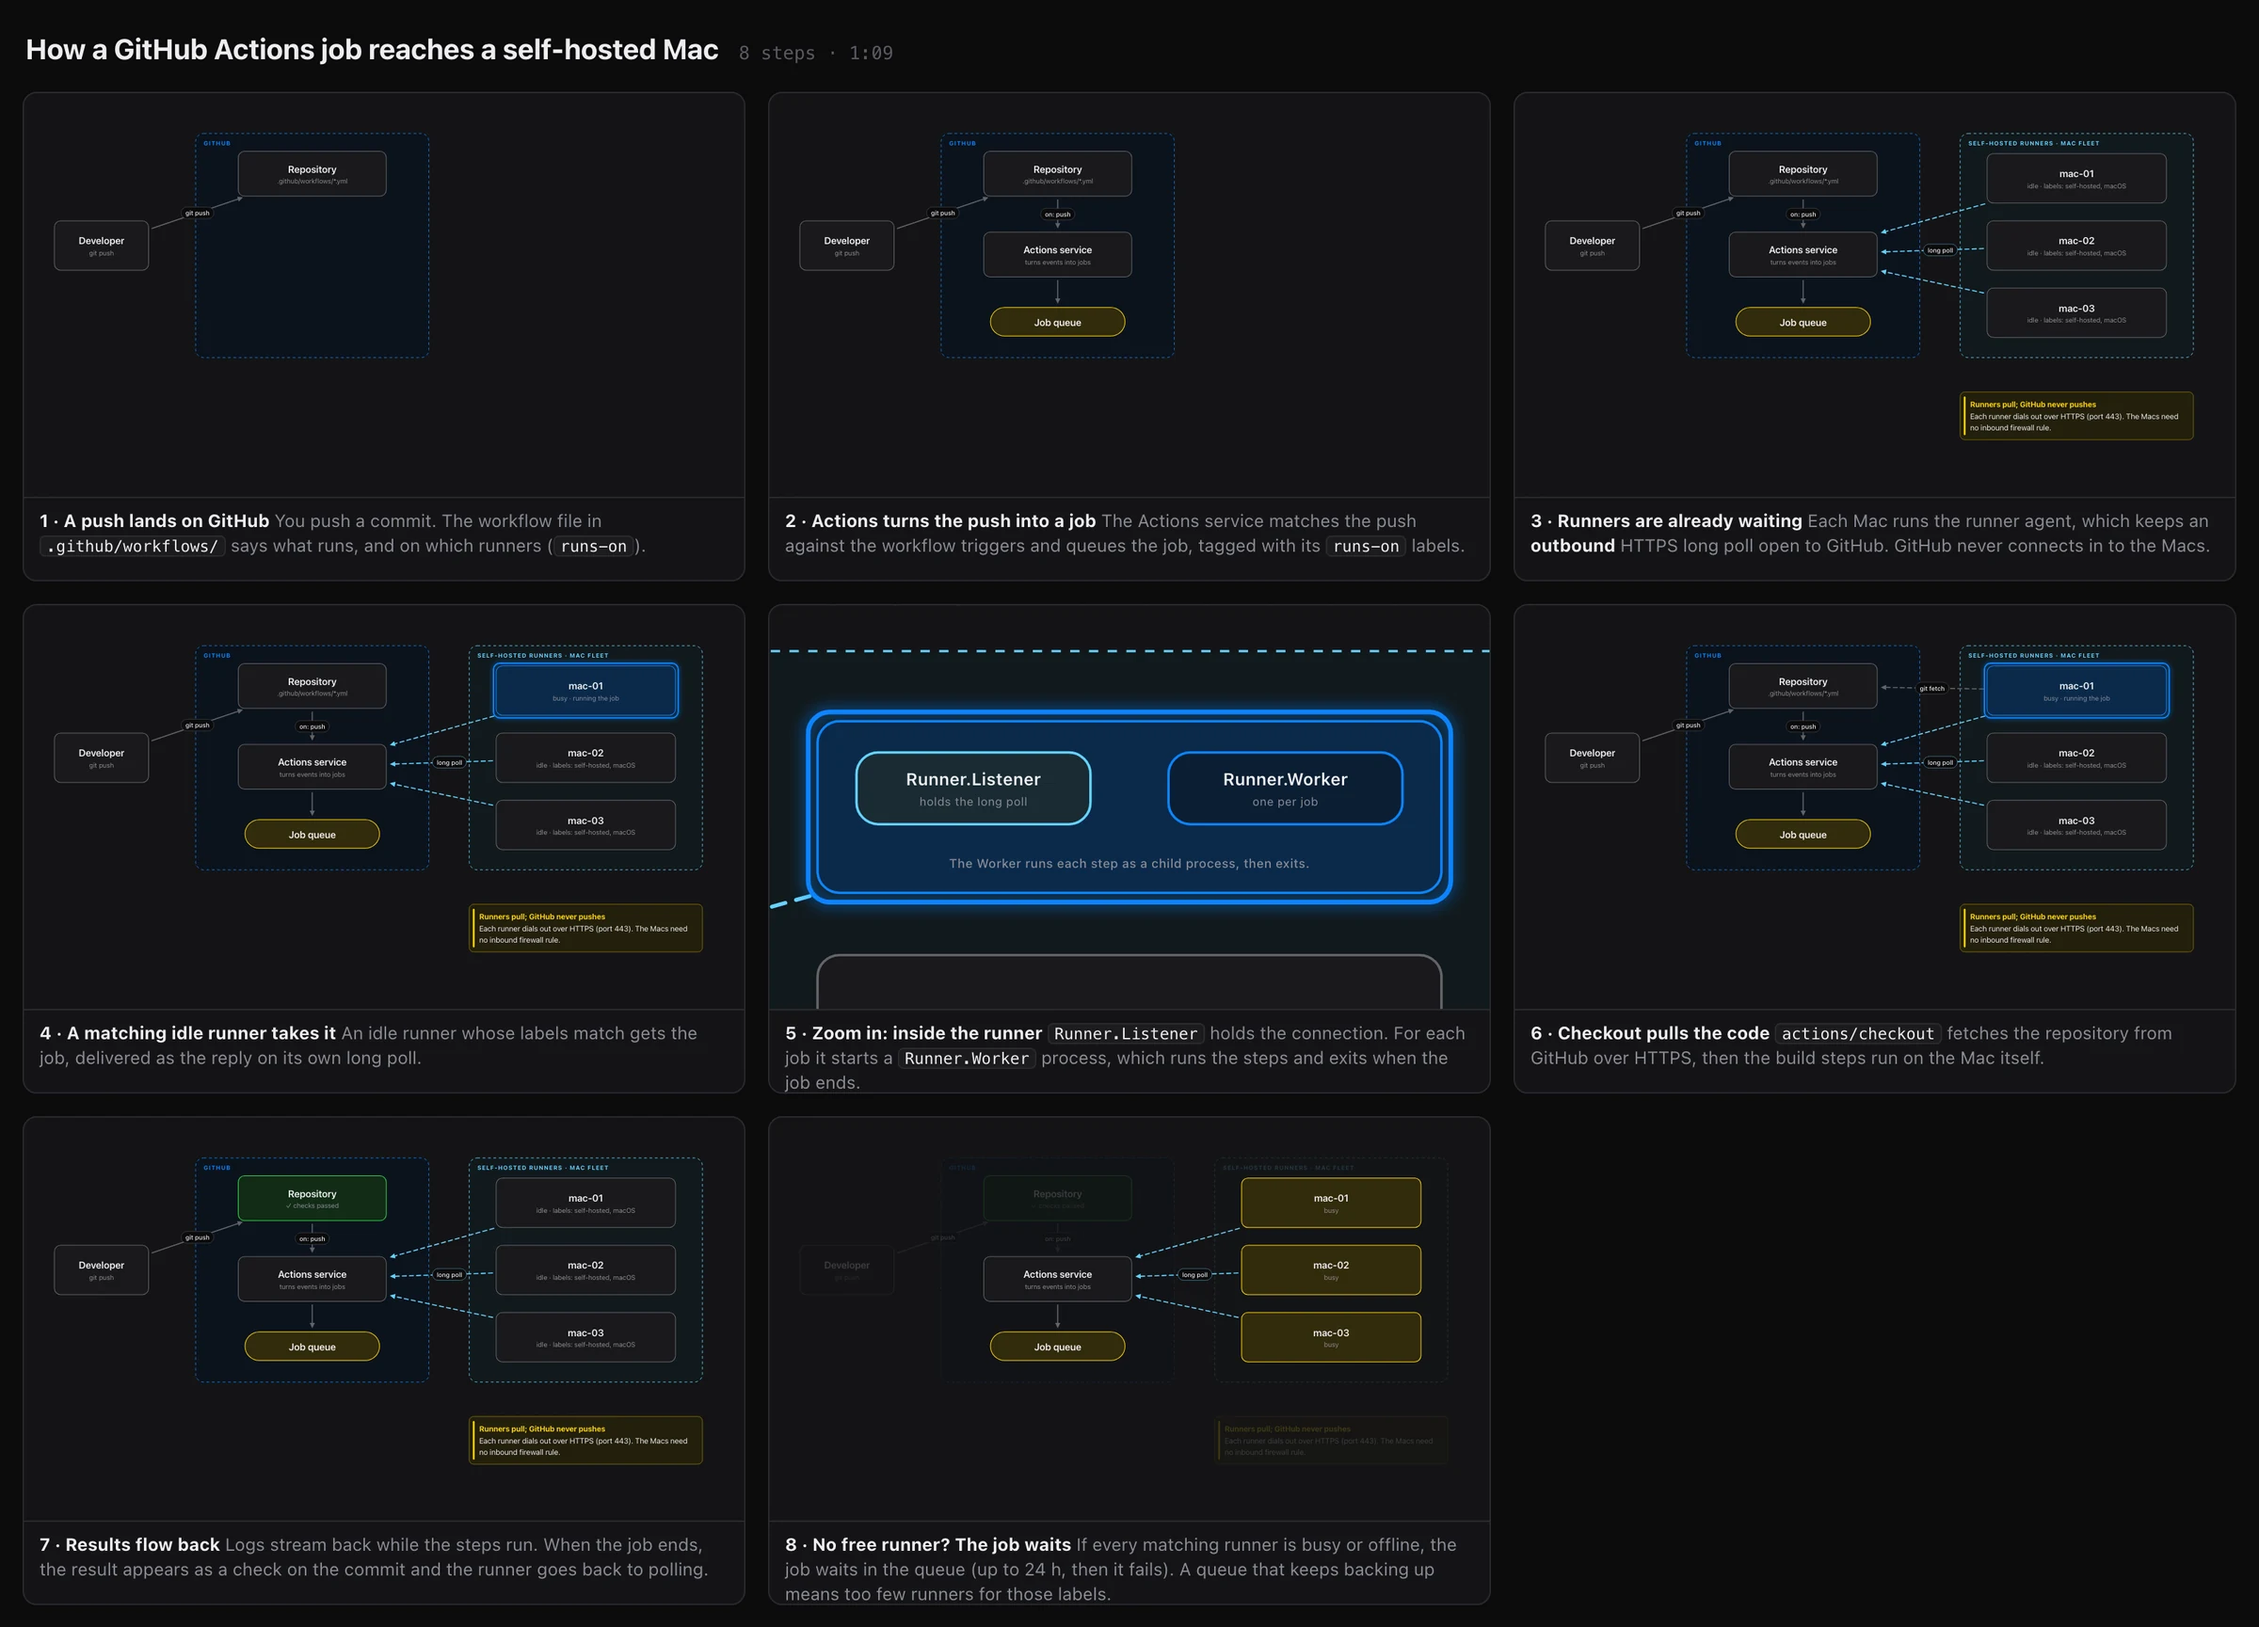
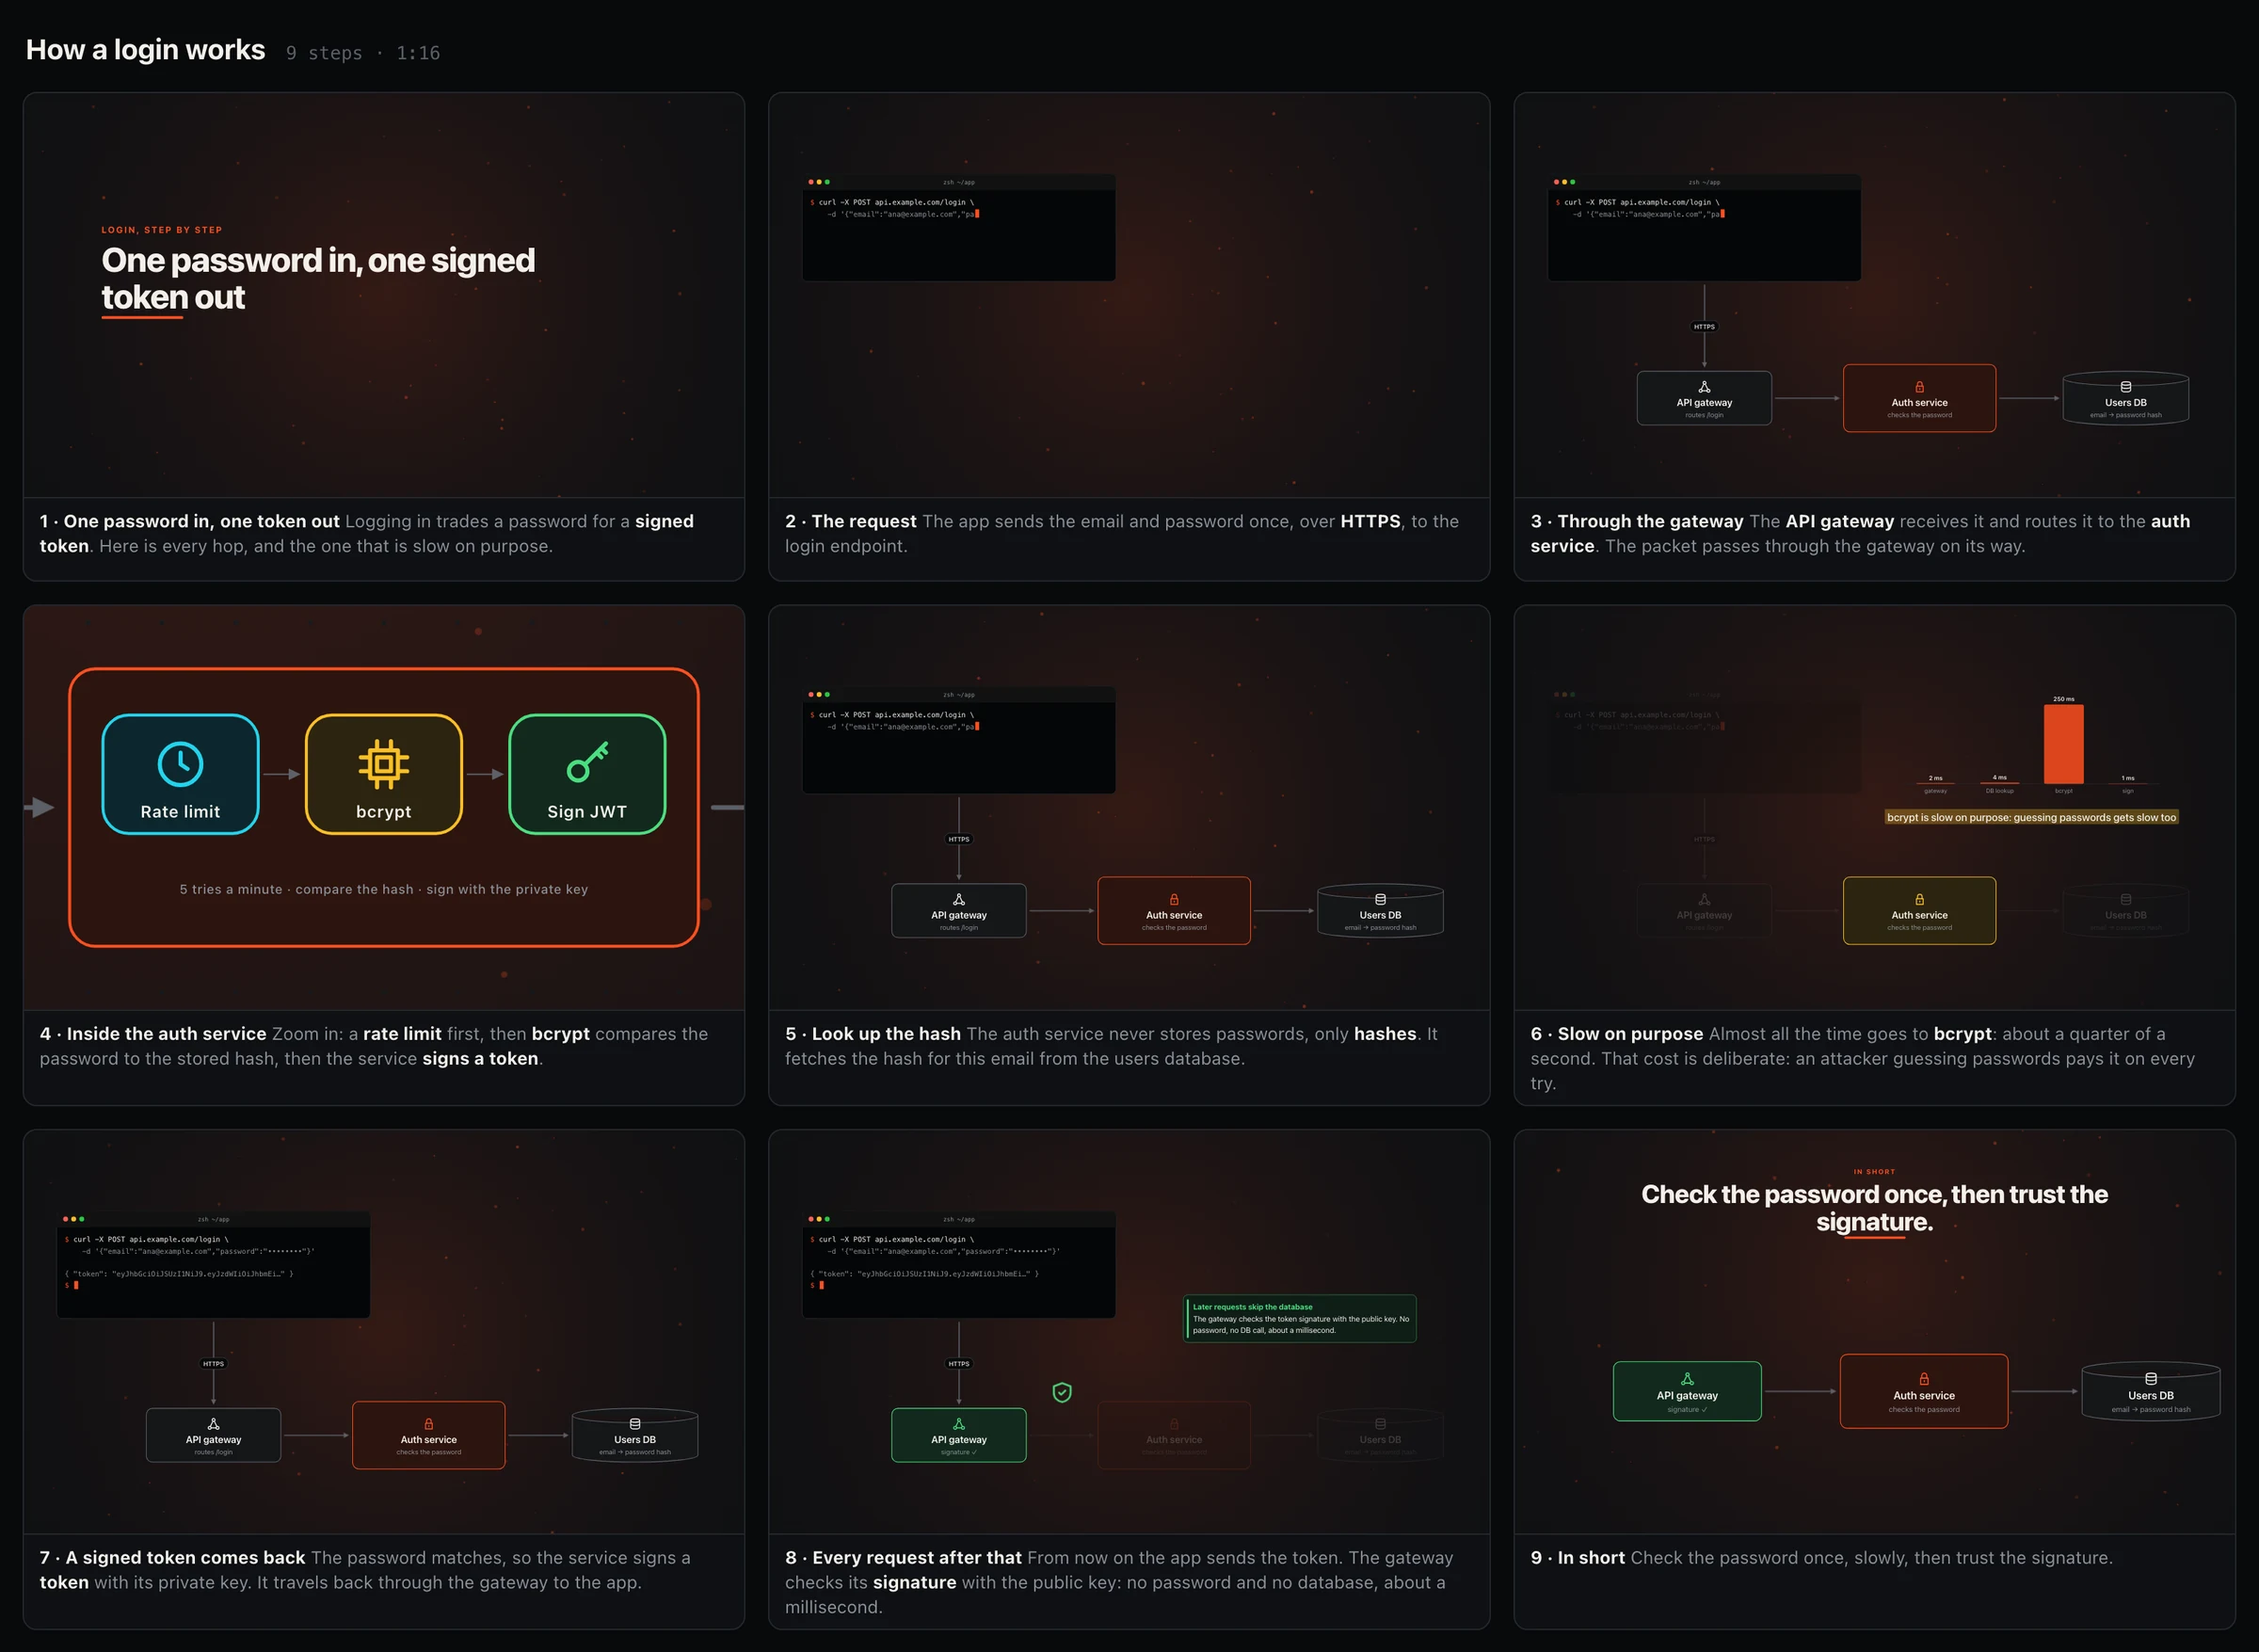
README: feature the login example as input prompt and output
Hero animation and contact sheet now come from the login explainer, with the
exact prompt, a link to play the result, and what each step shows.

Claude-Session: https://claude.ai/code/session_01FcE5kcGUEmbjMKEMKZrbUc

diff --git a/README.md b/README.md
@@ -12,22 +12,42 @@ A [Claude Code](https://claude.com/claude-code) skill. One prompt in, one self-c
 [![release](https://img.shields.io/github/v/release/4lxn/motion-explainer?color=0a84ff)](https://github.com/4lxn/motion-explainer/releases)
 [![MIT](https://img.shields.io/badge/license-MIT-blue.svg)](LICENSE)
 
-<img src="docs/demo.webp" alt="A motion-explainer animation: a terminal types git push, a pipeline lights up, a bar chart shrinks, a status page turns green" width="820">
+<a href="https://4lxn.github.io/motion-explainer/login-flow.html"><img src="docs/demo.webp" alt="A motion-explainer animation of a login: a terminal types a curl call, a packet passes through the API gateway, the camera zooms inside the auth service, a latency chart shows bcrypt dominating" width="820"></a>
+
+<sub>Made from one prompt. Click to play it yourself: pause, step, zoom.</sub>
 
 </div>
 
-## How it goes
+## One prompt in, one explainer out
+
+**Input**
 
 ```text
-you    > /motion-explainer how does DNS turn example.com into an IP?
-
-claude > 1. storyboards 10 steps and checks the facts (here: a real dig +trace)
-         2. writes a scene, builds it, lints it in headless Chrome
-         3. screenshots every step, fixes what looks wrong
-         4. opens the player
+/motion-explainer Explain a login flow. Icon on every box, a terminal mockup for the curl call,
+a latency chart, zoom into the auth service, hud theme.
 ```
 
-That DNS explainer is real and unedited: [watch it](https://4lxn.github.io/motion-explainer/dns-resolution.html).
+**Output** · [**▶ Watch it**](https://4lxn.github.io/motion-explainer/login-flow.html) (9 steps, 1:16, one 120 KB HTML file) · [scene source](examples/login-flow.scene.js)
+
+| Step | What happens |
+|---|---|
+| 2 | A terminal types the `curl` call |
+| 3 | The request packet passes **through** the API gateway (its outline fills like a progress ring) on its way to the auth service |
+| 4 | The camera zooms **inside** the auth service: rate limit → bcrypt → sign JWT |
+| 5 | The packet goes into the users database and comes back with the password hash |
+| 6 | A latency chart: bcrypt takes ~250 ms of the request, **on purpose** |
+| 7–8 | A signed token travels back; later requests only check its signature |
+
+**What Claude did in between**
+
+```text
+1. storyboarded 9 steps and checked the facts
+2. wrote the scene, built it, linted it in headless Chrome (overlaps, text that doesn't fit, hidden arrows)
+3. screenshotted every step and fixed what looked wrong
+4. opened the player
+```
+
+Another one, from a plain prompt with no graphics named and no edits: [how DNS resolution works](https://4lxn.github.io/motion-explainer/dns-resolution.html), built from a real `dig +trace`.
 
 ## Why it's different
 
@@ -40,8 +60,8 @@ That DNS explainer is real and unedited: [watch it](https://4lxn.github.io/motio
 | **Narrated, offline** | Local [Kokoro](https://github.com/thewh1teagle/kokoro-onnx) voices in English and Spanish, with a voice picker in the player. Nothing leaves your machine. |
 
 <div align="center">
-<img src="docs/sheet.webp" alt="Contact sheet: all 8 steps of the GitHub Actions explainer" width="820">
-<br><sub>Every step of one explainer at a glance (<code>motion shot</code>). Step 5 zooms inside a runner.</sub>
+<img src="docs/sheet.webp" alt="Contact sheet: all 9 steps of the login explainer" width="820">
+<br><sub>Every step of the login explainer at a glance (<code>motion shot</code>): the sheet Claude reviews before showing you.</sub>
 </div>
 
 ## Install
